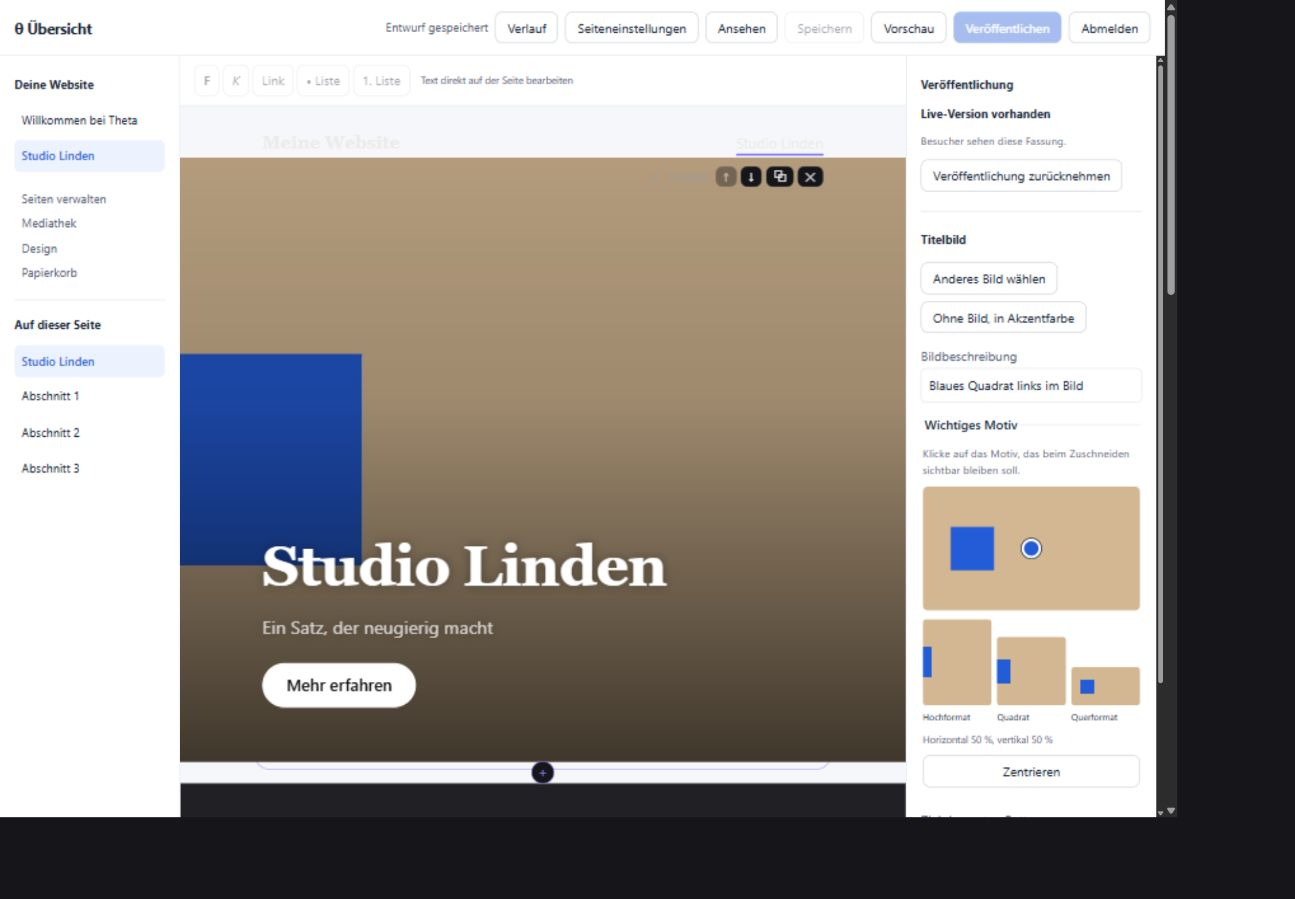
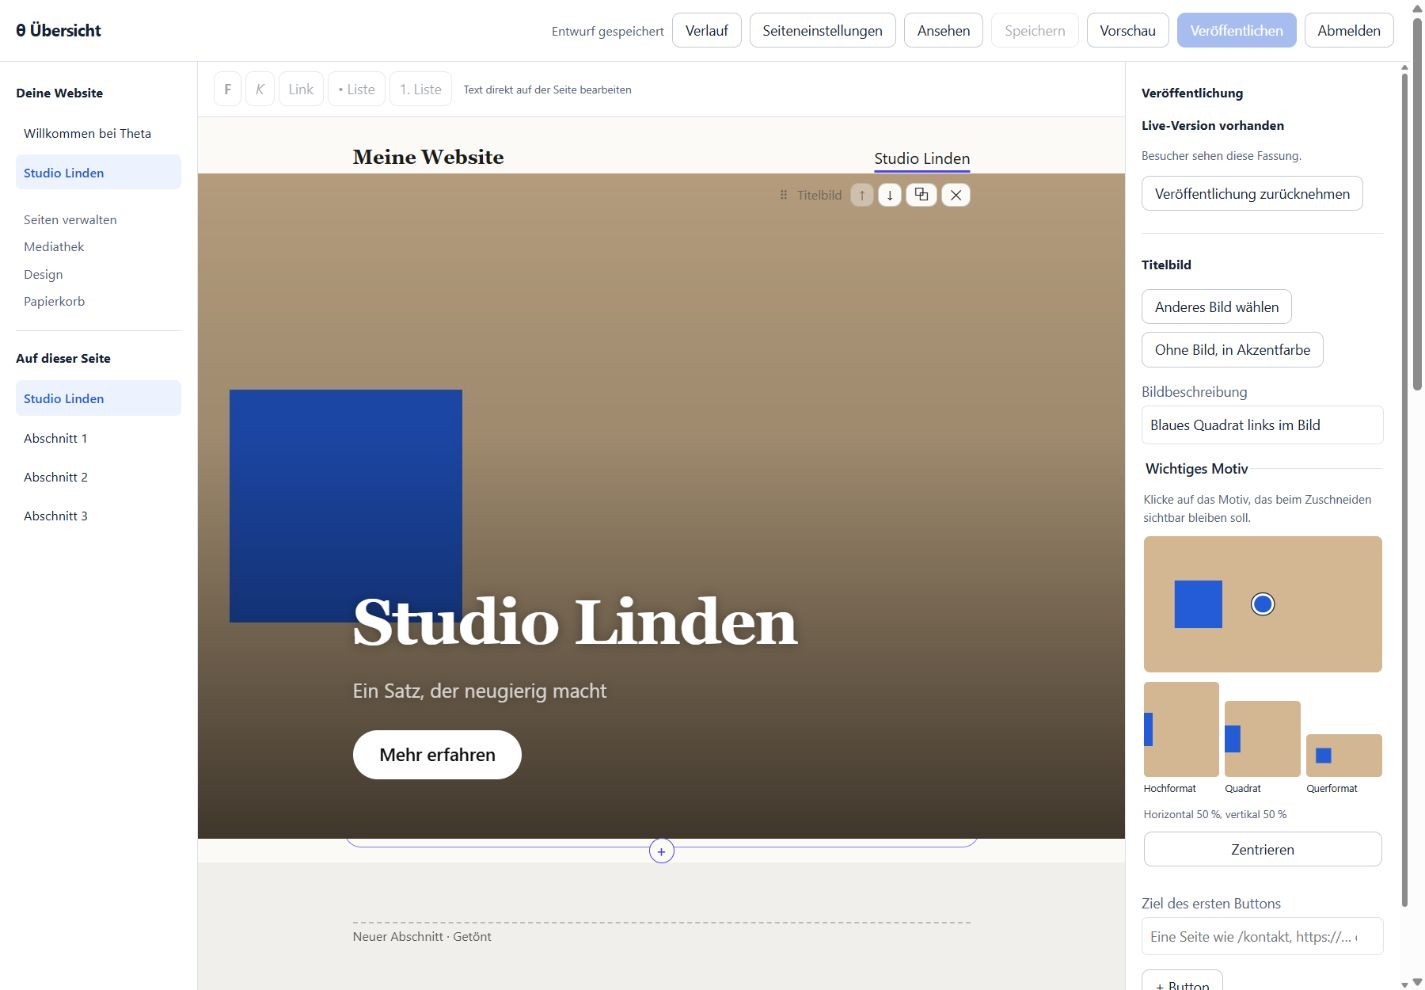
Keep editor canvas readable in light and dark themes

diff --git a/src/editor/editor.css b/src/editor/editor.css
@@ -526,7 +526,7 @@
 .theta-nav-links { display: grid; gap: 8px; padding: 20px 8px; margin-bottom: 18px; border-bottom: 1px solid #dce2eb; }
 .theta-nav-links a { color: #526175; text-decoration: none; }
 .theta-publication { padding-bottom: 22px; margin-bottom: 22px; border-bottom: 1px solid #dce2eb; }
-.theta-canvas { min-width: 0; container-type: inline-size; overflow: clip; min-height: calc(100vh - 62px); }
+.theta-canvas { min-width: 0; container-type: inline-size; overflow: clip; min-height: calc(100vh - 62px); background: var(--t-color-bg); }
 .theta-canvas > .t-page { --t-viewport: 100cqw; }
 .theta-format-dock { position: relative; display: flex; flex-wrap: wrap; gap: 12px; align-items: center; padding: 10px 16px; border-bottom: 1px solid #dce2eb; }
 .theta-format-dock > span { color: #526175; font-size: 11px; }

diff --git a/docs/umsetzung-editor.md b/docs/umsetzung-editor.md
@@ -15,4 +15,4 @@ Nicht Teil dieses Umsetzungspakets: öffentlicher Freigabe-Link, Backup/Restore,
 
 Prüfung: 154 Tests erfolgreich, Typprüfung fehlerfrei. Neue Regressionstests decken bestehende Datenbanken, private Entwürfe in HTML/RSS/Sitemap/Export, veraltete Speicher- und Veröffentlichungsversuche, Autosave-Reihenfolge, Offline-Wiederholung, Verlauf, Papierkorb, Medienverweise, Abschnittsgruppen, eigene Vorlagen und Fokuspunkte ab. Der ZIP-Test verwendet fflate und läuft auch ohne ein externes unzip-Programm unter Windows.
 
-Browserprüfung mit isolierter Testdatenbank: Entwurf bearbeiten und veröffentlichen, Konflikt nach Änderung in anderer Sitzung, Abschnitt verdoppeln, eigene Vorlage speichern/einfügen, Fokuspunkt per Tastatur sowie Desktop- und Mobilansicht. Ein nur im Browser auftretender fetch-Aufruffehler wurde behoben und als Regressionstest aufgenommen. Die vorhandene lokale Website-Datenbank wurde dabei nicht verwendet.
+Browserprüfung mit isolierter Testdatenbank: Entwurf bearbeiten und veröffentlichen, Konflikt nach Änderung in anderer Sitzung, Abschnitt verdoppeln, eigene Vorlage speichern/einfügen, Fokuspunkt per Tastatur sowie Desktop- und Mobilansicht. Helles und dunkles Website-Theme behalten ihren eigenen Hintergrund und lesbare Kopfzeilen; die Werkzeuge bleiben neutral. Ein nur im Browser auftretender fetch-Aufruffehler wurde behoben und als Regressionstest aufgenommen. Die vorhandene lokale Website-Datenbank wurde dabei nicht verwendet.
